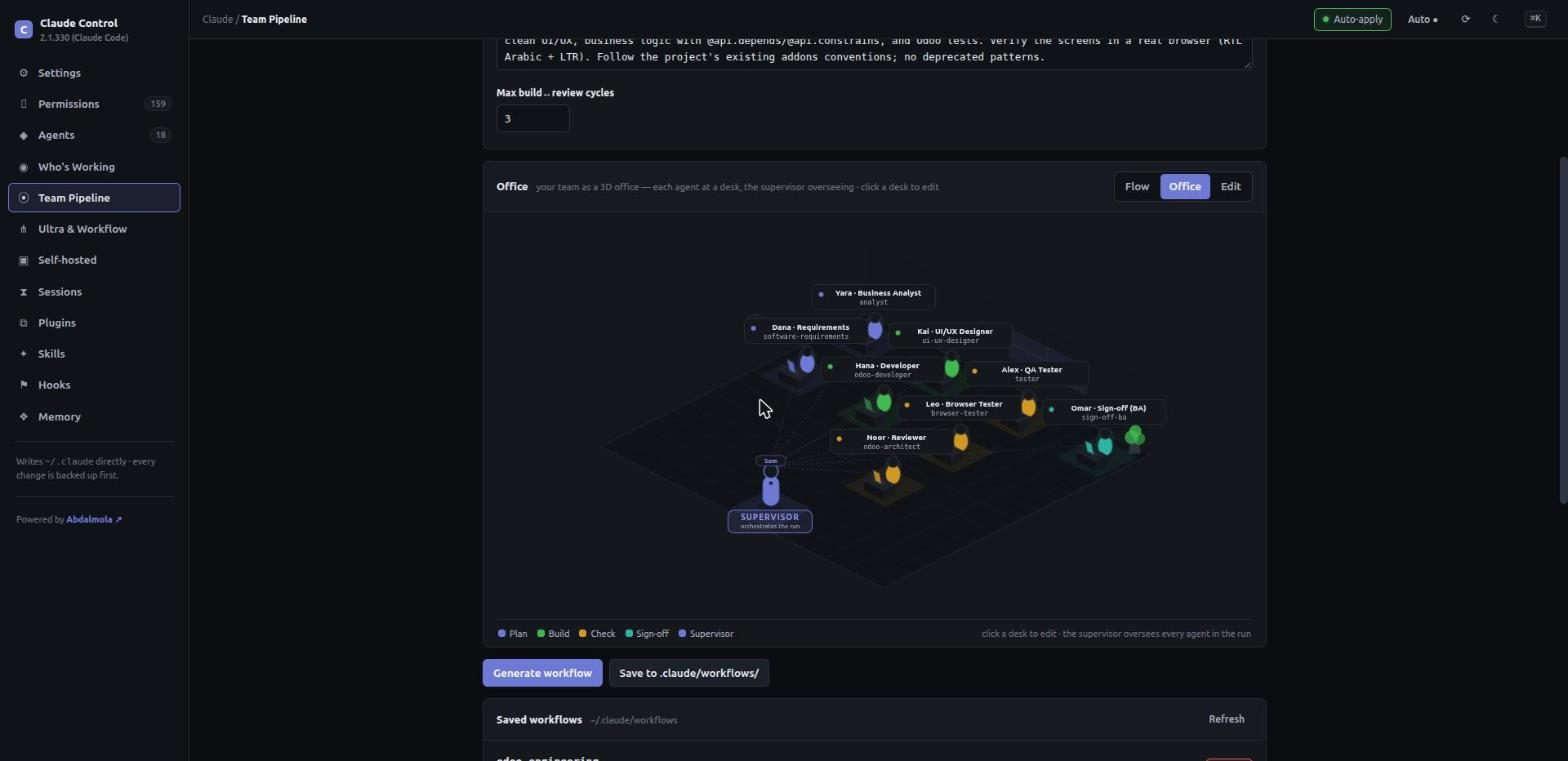
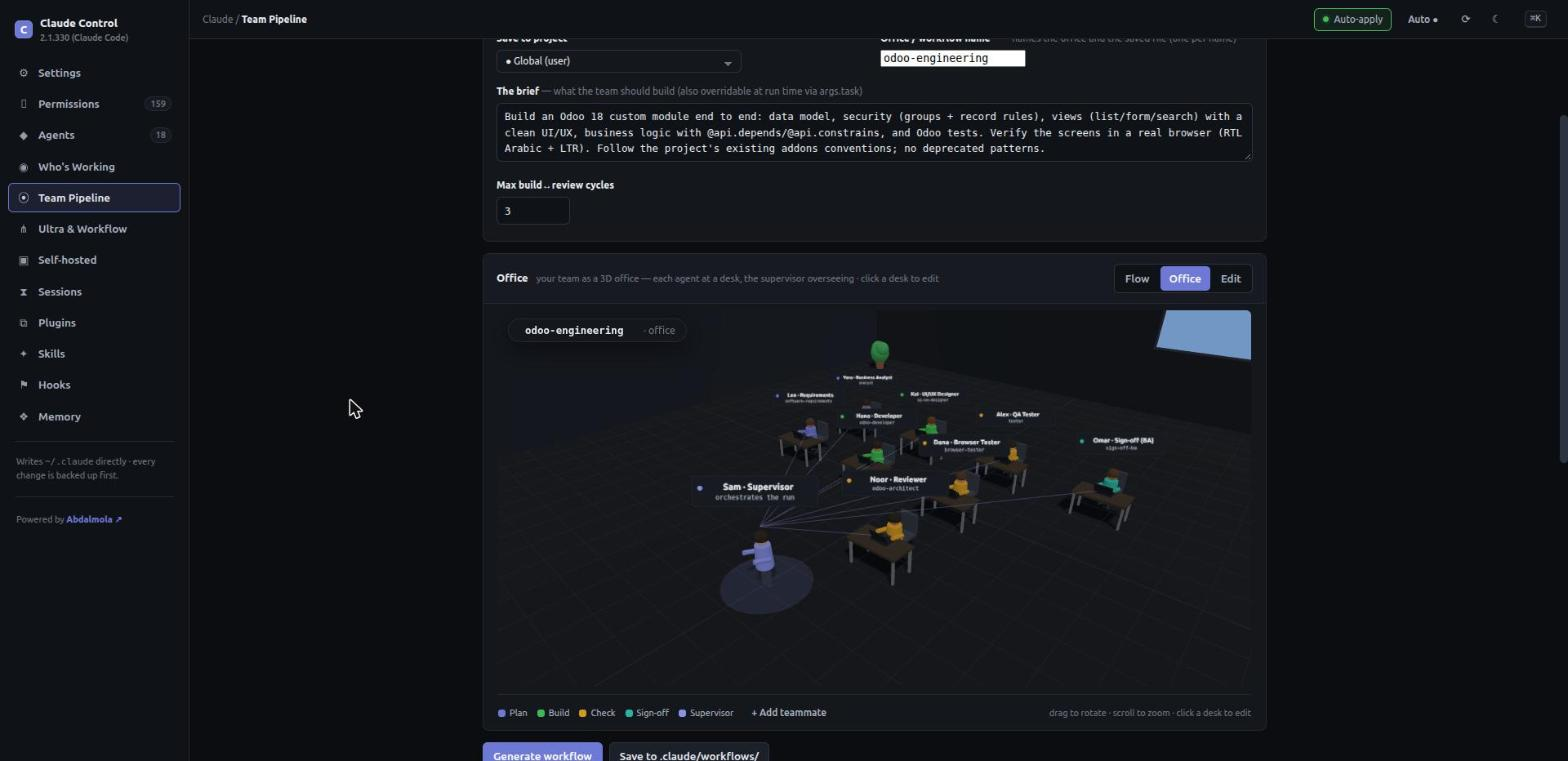
docs: refresh README for the 3D office + session-office, new screenshots
Describe the Office as a real orbitable 3D office (default view, drag-to-move,
per-agent popup) and lead the Team Pipeline section with it. Add a Who's Working
paragraph explaining the session-as-office view and its status icons. Replace the
stale SVG office.png with a 3D capture; add session-office.png.

Claude-Session: https://claude.ai/code/session_0151JsYSFbCCzJrZf6B5xXHF

diff --git a/README.md b/README.md
@@ -16,17 +16,24 @@ end to end — **Plan → (Build ↔ Check loop, recycles until every check pass
 Sign-off** — and generates a real Claude Code *Workflow* you run from a session.
 One toggle switches between three views of the same team:
 
+- **Office** (the default view) — the team as a **real 3D office you can orbit** (drag to rotate, scroll to zoom): every agent is a named teammate seated at a desk with a laptop, people idle and screens flicker, and a **supervisor** oversees the run. **Drag an agent to another desk** to move it; click a desk for a popup to edit just that teammate.
 - **Flow** — a node graph of the pipeline (phases color-coded, the recycle loop bracketed). **Drag a node** to reorder it, or drop it on another phase to move it; click one to edit.
-- **Office** — the same team as an isometric 3D office: every agent is a named teammate seated at a desk with a laptop, the monitors flicker and people idle, and a **supervisor** oversees the whole run. Click any desk for a popup to edit just that teammate.
 - **Edit** — the full roster list (reorder, retype, reassign, generate missing teammates with AI).
 
 Each role maps to a real teammate (or the default worker), and every saved workflow can be
 **re-opened and edited** — the builder round-trips losslessly via a sidecar, so a team is
 never write-once. Save as many distinct pipelines as you like (one file per name):
 
+![Team Pipeline — the Office view: a real 3D office, each named agent at a desk with a laptop, a supervisor overseeing](docs/office.png)
+
 ![Team Pipeline — flow graph: Plan → recycle loop → Sign-off, nodes mapped to your agent roster](docs/team-pipeline.png)
 
-![Team Pipeline — the Office view: each named agent at a desk with a laptop, a supervisor overseeing](docs/office.png)
+**Who's Working** shows every live Claude Code session on this machine. Open one to see
+the session **as an office** too — the agents it has spawned in its latest run, seated at
+desks and color-coded by status (▶ working now · ⏳ waiting · ⏸ on hold), alongside a
+step-by-step activity log of what it's doing:
+
+![Who's Working — a running session as an office, agents color-coded by status](docs/session-office.png)
 
 ## Features
 
